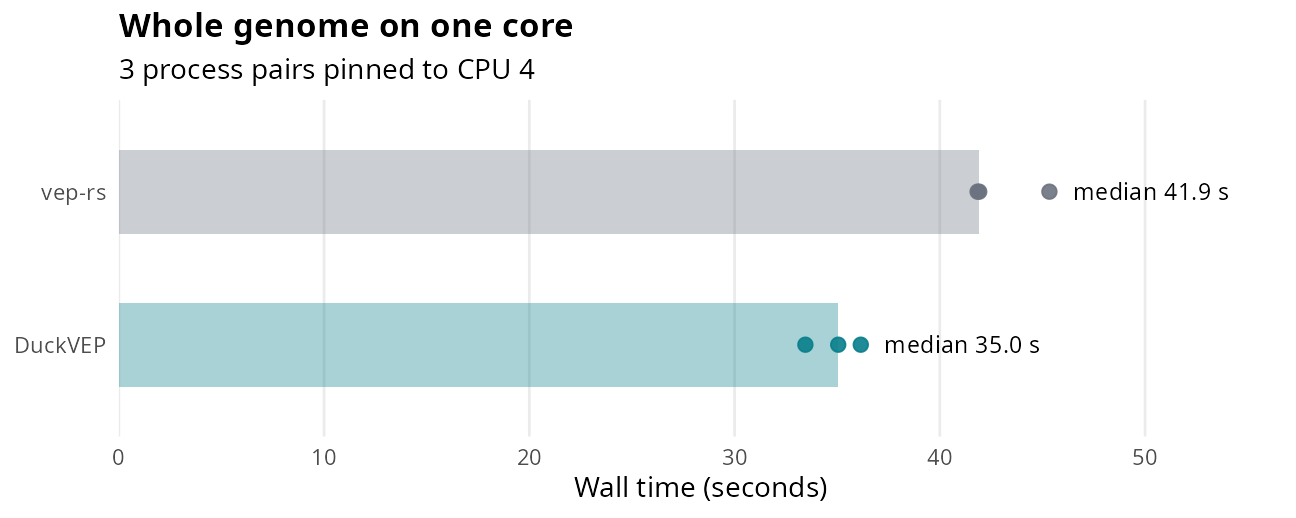
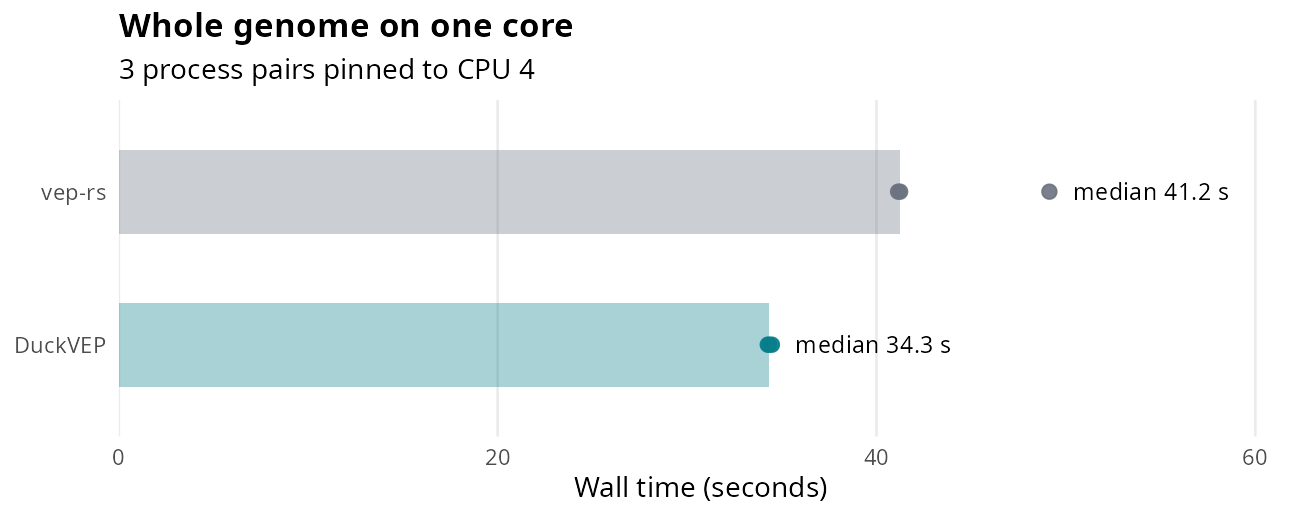
Record the vep-rs comparison at 2c7a930
Three paired single-core runs on HG002 (4,070,522 alleles) with DuckDB
2.0.0: DuckVEP median 34.3 s, vep-rs 0.3.1 median 41.2 s. 34,146,531 of
34,148,222 tuples on shared transcripts agree. Executable VEP agrees
with DuckVEP on 1,689 of the 1,691 that differ, with vep-rs on 1 and
with neither on 1.

Refs #71

diff --git a/benchmarks/benchmark_duckvep_vep_rs.md b/benchmarks/benchmark_duckvep_vep_rs.md
@@ -11,8 +11,8 @@ differ.
 
 |                                                |    DuckVEP |     vep-rs |
 |------------------------------------------------|-----------:|-----------:|
-| Median wall time, one core                     |     35.0 s |     41.9 s |
-| Median CPU time                                |     35.0 s |     39.7 s |
+| Median wall time, one core                     |     34.3 s |     41.2 s |
+| Median CPU time                                |     34.3 s |     40.3 s |
 | Median peak memory                             |   2.66 GiB |   2.77 GiB |
 | Output rows                                    | 47,278,065 | 36,258,238 |
 | Transcripts in output                          |    598,993 |    421,878 |
@@ -27,8 +27,7 @@ neither on 1.
 
 The 3 cold-process pairs ran one after another on CPU 4, vep-rs first in
 each pair. Each timed process includes startup, extension load, model
-snapshot restore, VCF read and sort, annotation, and output. Lines join
-the two halves of a pair.
+snapshot restore, VCF read and sort, annotation, and output.
 
 <div class="figure" style="text-align: center">
 
@@ -103,22 +102,22 @@ Run design and reproduction
 Render from the repository root with
 `Rscript benchmarks/scripts/render_benchmarks.R vep_rs`. The report
 reads the newest `benchmarks/data/vep_rs/*_paired` directory, here
-2417ac9_paired, measured at DuckVEP revision 2417ac9.
+2c7a930_paired, measured at DuckVEP revision 2c7a930.
 
 vep-rs ran its release binary with `--fork 1`. DuckVEP ran with
 `SET threads = 1`, so both used one worker on the pinned core. The
 adjudicating VEP uses `--gtf` with the same GTF the vep-rs cache was
 built from.
-[`run_receipt.tsv`](data/vep_rs/2417ac9_paired/run_receipt.tsv) records
+[`run_receipt.tsv`](data/vep_rs/2c7a930_paired/run_receipt.tsv) records
 the executables and their hashes;
-[`preparation.receipt.tsv`](data/vep_rs/2417ac9_paired/preparation.receipt.tsv)
+[`preparation.receipt.tsv`](data/vep_rs/2c7a930_paired/preparation.receipt.tsv)
 and
-[`preparation_outputs.sha256`](data/vep_rs/2417ac9_paired/preparation_outputs.sha256)
+[`preparation_outputs.sha256`](data/vep_rs/2c7a930_paired/preparation_outputs.sha256)
 bind the inputs and the prepared snapshot. Paths in them locate the
 measurement host’s files.
-[`timings.tsv`](data/vep_rs/2417ac9_paired/timings.tsv),
-[`stage_timings.tsv`](data/vep_rs/2417ac9_paired/stage_timings.tsv) and
-[`adjudication.txt`](data/vep_rs/2417ac9_paired/adjudication.txt) are
+[`timings.tsv`](data/vep_rs/2c7a930_paired/timings.tsv),
+[`stage_timings.tsv`](data/vep_rs/2c7a930_paired/stage_timings.tsv) and
+[`adjudication.txt`](data/vep_rs/2c7a930_paired/adjudication.txt) are
 the raw outputs this page is drawn from.
 
 To reproduce, set `DUCKVEP_READER_EXT`, `DUCKVEP_MODEL`, `VEP_RS_CACHE`,
